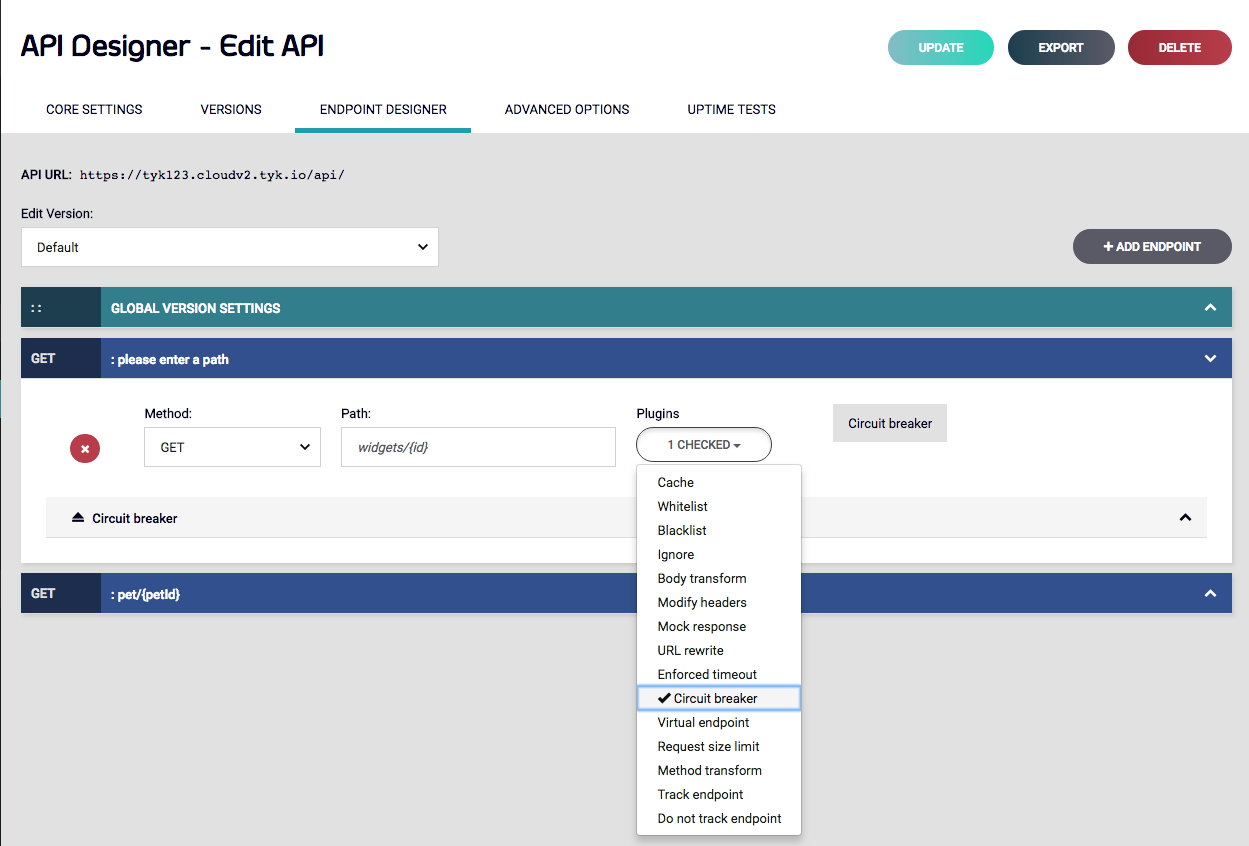
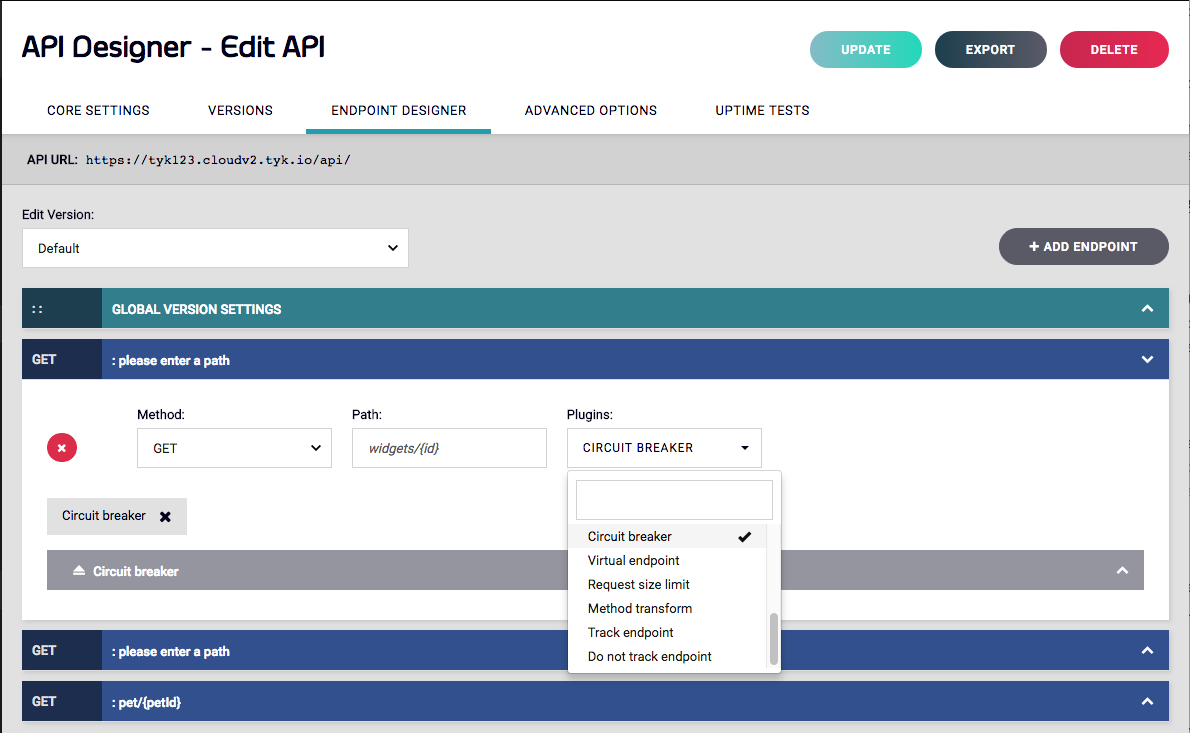
Plugins screenshot updates

diff --git a/tyk-docs/content/transform-traffic/endpoint-designer.md b/tyk-docs/content/transform-traffic/endpoint-designer.md
@@ -69,7 +69,7 @@ This plugin allows you to change the method of a request. See [Method Transforms
 
 This plugin allows you to mock responses for an API endpoint. This can be useful when creating a new API, or when making a development API available to an external team.
 
-> **Note**: In order for mocks to be enabled, the path must also be in a list, we recommend adding the path to a whitelist. If this isn't done, then the mock will not be saved on update.
+> **Note**: In order for mocks to be enabled, the path must also be in a list. We recommend adding the path to a whitelist. If this isn't done, then the mock will not be saved on an update.
 
 **API Blueprint**: If you have imported an API Blueprint definition, and selected the mocks option in the importer, then your whole API will be a white list.
 

diff --git a/tyk-docs/content/transform-traffic/request-method-transform.md b/tyk-docs/content/transform-traffic/request-method-transform.md
@@ -23,5 +23,14 @@ method_transforms: [
 
 ### Using the Dashboard
 
-To do this from the Dashboard, from the API Endpoint Designer select *method transform* from the plugins drop down for the path you wish to target.
+To do this from the Dashboard, from the **API Endpoint Designer** select **method transform** from the plugins drop-down list on the endpoint you want to transform from.
 
+![Method Transform][1]
+
+Then select the path you wish to change to.
+
+![Method Path][2]
+
+
+ [1]: /docs/img/dashboard/system-management/method_transform_2.5.png
+ [2]: /docs/img/dashboard/system-management/method_to_path_2.5.png

diff --git a/tyk-docs/content/transform-traffic/url-rewriting.md b/tyk-docs/content/transform-traffic/url-rewriting.md
@@ -64,6 +64,7 @@ Add the regex capture groups and the new URL to the relevant sections.
 
 #### Create Advanced Trigger
 
+![Advanced trigger][4]
 **New Function**
 
 ### Step 3: Save the API
@@ -85,6 +86,7 @@ As of v2.3 it is possible to inject meta data from a Tyk Session Object linked t
 [1]: /docs/img/dashboard/system-management/url_rewrite_endpoint_2.5.png
 [2]: /docs/img/dashboard/system-management/config_url_rewrite_2.5.png
 [3]: /docs/concepts/context-variables/
+[4]: /docs/img/dashboard/system-management/advanced_trigger_2.5.png
 
 
 

diff --git a/tyk-docs/content/control-limit-traffic/request-size-limits.md b/tyk-docs/content/control-limit-traffic/request-size-limits.md
@@ -15,7 +15,7 @@ Tyk supports forcing request size limits on a global and on a per-endpoint level
 
 ## <a name="max-request-size-with-dashboard"></a> Max Request Size with the Dashboard
 
-To enforce a request sizer on your API, you must first go into your Endpoint designer:
+To enforce a request size on your API, from your **Endpoint Designer**:
 
 ![Endpoint designer tab location][1]
 

diff --git a/tyk-docs/content/transform-traffic/request-headers.md b/tyk-docs/content/transform-traffic/request-headers.md
@@ -61,7 +61,7 @@ This ensures that this will only be applied to inbound requests.
 
 Select set the headers to delete and insert using the provided fields.
 
-> **Important**: Remember to press the "+" button to ensure they are added to the list.
+> **Important**: Remember to click **ADD** to ensure they are added to the list.
 
 ![Header transforms][3]
 
